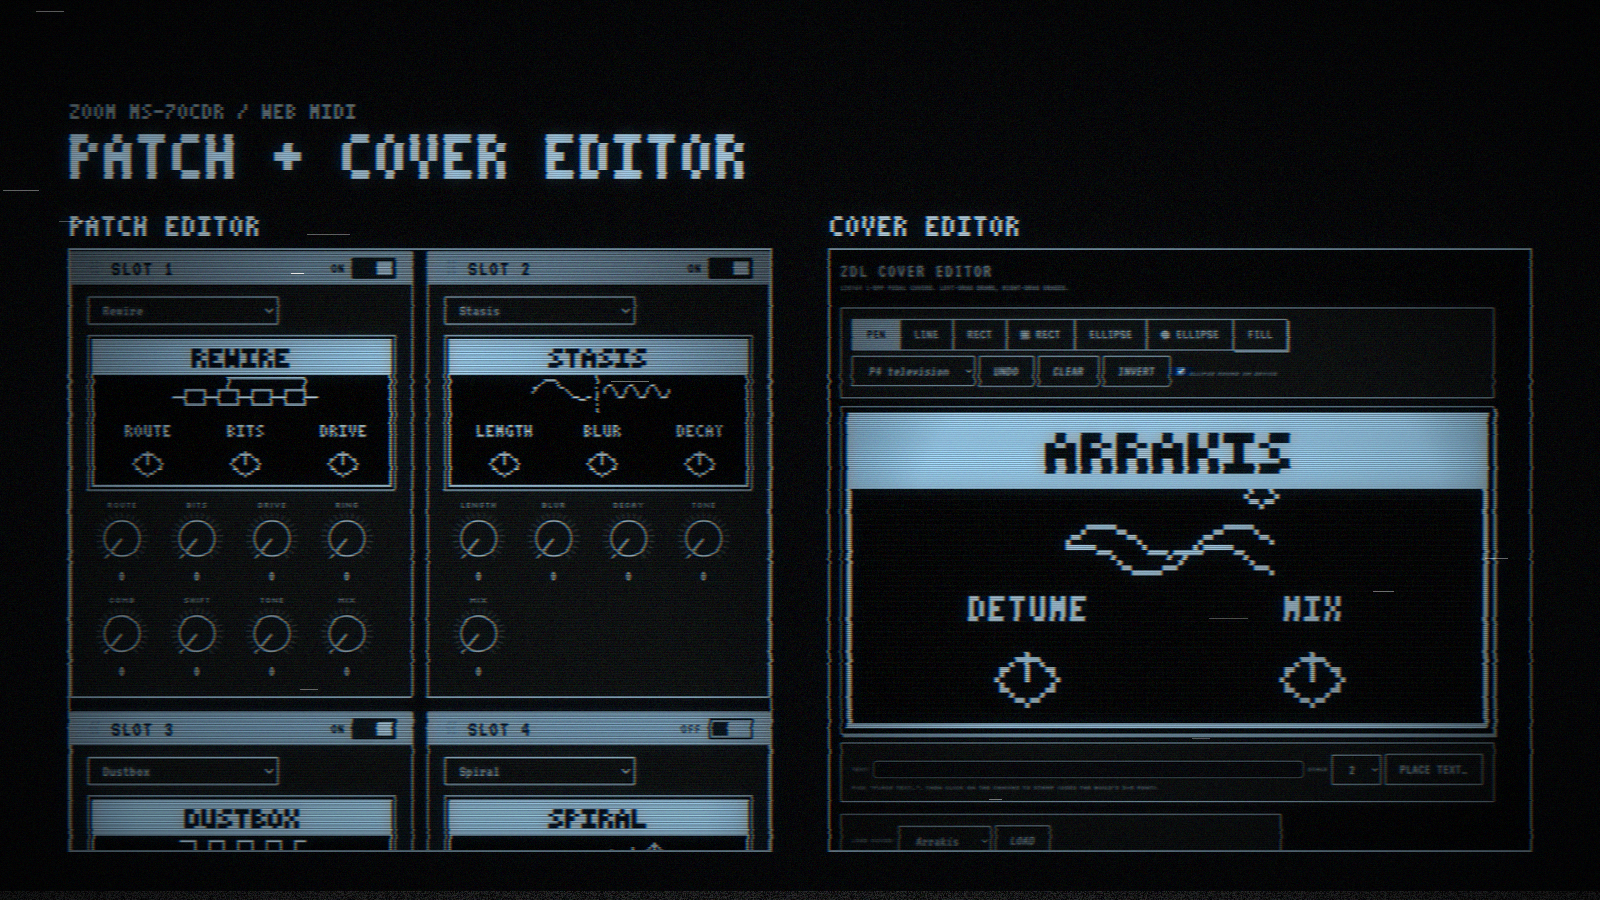
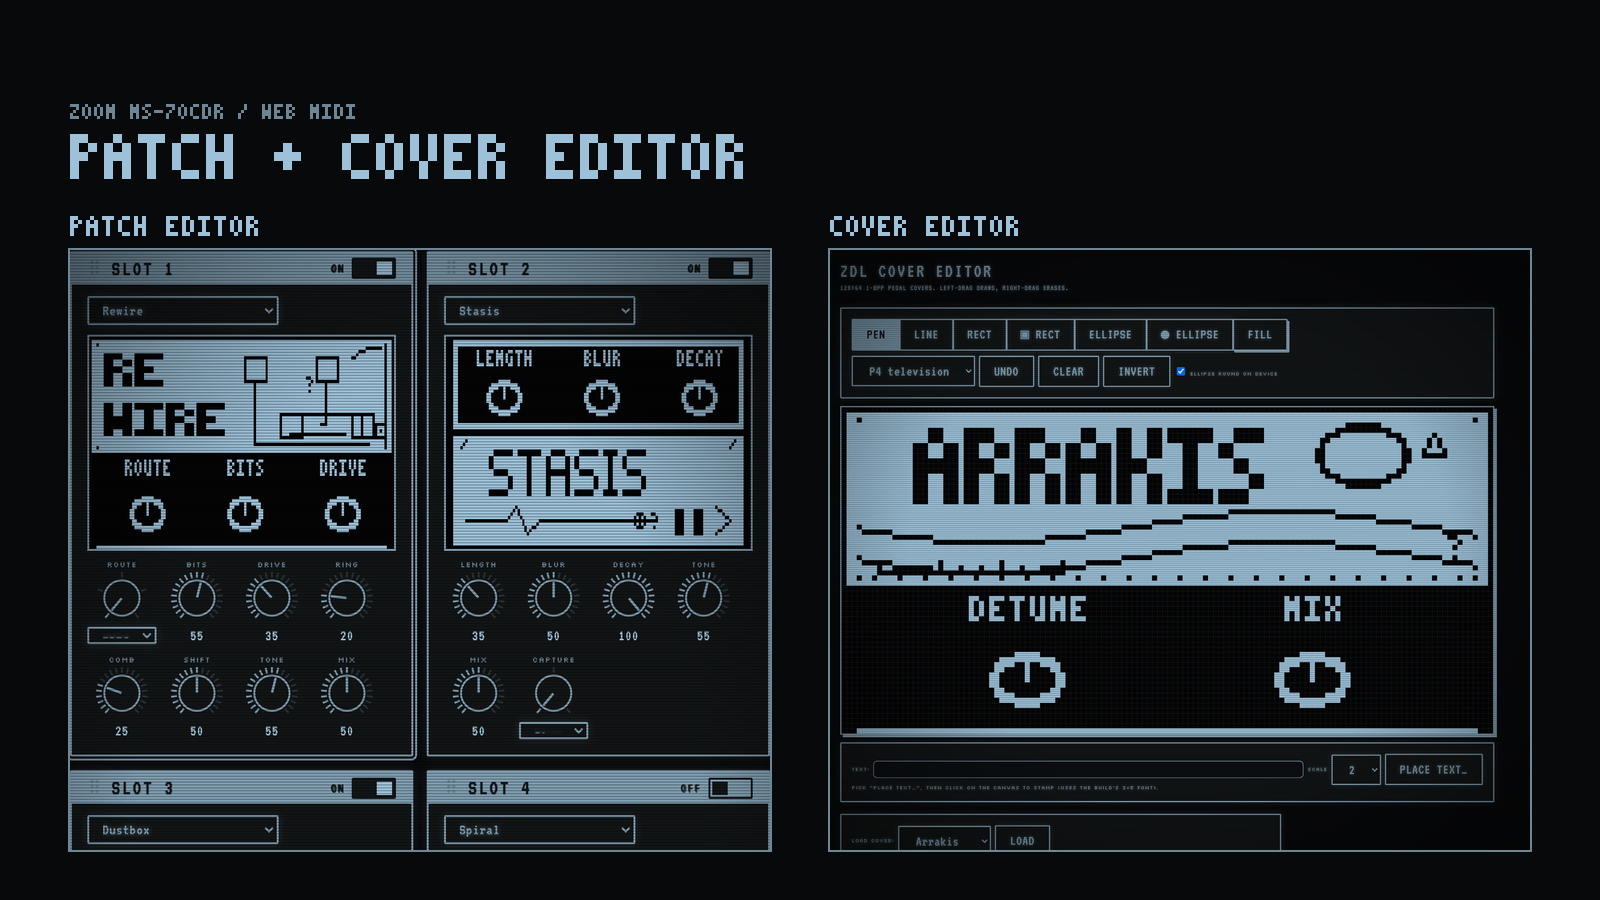
Refresh README effect overview and editor screenshots

Changed region(s): [[0.0312, 0.0933, 0.9688, 0.9644], [0.1562, 0.9956, 0.8125, 1.0], [0.5312, 0.9022, 0.6562, 0.9644]]

diff --git a/build/make_editor_thumb.py b/build/make_editor_thumb.py
@@ -1,5 +1,5 @@
 #!/usr/bin/env python3
-"""Render graphics/thumb_editors.png -- the editor hero -- as a VHS screengrab.
+"""Render graphics/thumb_editors.png -- the editor hero -- from current editor screenshots.
 
 Composition follows the June 2026 hero: an eyebrow, a big title, and the two
 editors side by side. What is different is that the June one was an ILLUSTRATION
@@ -13,6 +13,9 @@ pedal sends one -- a synthetic 146-byte 0x28 dump handed to the page's own
 handleSysex() -- so slots, knob counts and cover previews come from the editor's
 real code paths. When Rewire's Shift knob was missing from the editor's effect DB,
 this image showed seven knobs, which is how the staleness got caught.
+
+The current Arrakis bitmap is imported through the JSON file input, so the
+capture does not depend on the cover editor's older embedded examples.
 
 The pages are captured at a NARROW viewport on purpose: at full width the slot
 cards sit in one long row, and the reference composition wants two tall panels.
@@ -31,11 +34,11 @@ import numpy as np
 ROOT = Path(__file__).resolve().parent.parent
 sys.path.insert(0, str(ROOT / "build"))
 
-from make_thumb_png import BG, CARD_BG, LIT, DIM, draw_text, vhs  # noqa: E402
+from make_thumb_png import BG, CARD_BG, LIT, DIM, draw_text  # noqa: E402
 
 from PIL import Image  # noqa: E402
 
-PORT = 8777
+PORT = 8766
 PATCH_URL = f"http://127.0.0.1:{PORT}/tools/patch_editor.html"
 COVER_URL = f"http://127.0.0.1:{PORT}/tools/cover_editor.html"
 OUT = ROOT / "graphics" / "thumb_editors.png"
@@ -76,7 +79,10 @@ PATCH_JS = """
   base[0]=0xF0; base[1]=0x52; base[2]=0x00; base[3]=0x61; base[4]=0x28; base[145]=0xF7;
   const p = decodePatch(base);
   const slots = __SLOTS__;
-  for (let i = 0; i < 6; i++) p.fx[i] = slots[i];
+  for (let i = 0; i < 6; i++) {
+    const [on, id] = slots[i];
+    p.fx[i] = [on, id, ...BYID[id].params.map(p => p.default), 0, 0, 0].slice(0, 11);
+  }
   p.name = 'FARLOW RUD';
   p.curfx = 0; p.maxfx = 6;
   handleSysex(encodePatch(p, base));
@@ -109,6 +115,11 @@ def shoot(url, js, vw, vh, selector, out_path):
         page = b.new_page(viewport={"width": vw, "height": vh}, device_scale_factor=2)
         page.goto(url, wait_until="networkidle")
         page.evaluate(js)
+        if url == COVER_URL:
+            import json
+            from decode_picture import decode_picture
+            rows, _ = decode_picture(str(ROOT / "dist" / "Arrakis.ZDL"))
+            page.locator('#jsonIn').set_input_files({"name": "Arrakis.json", "mimeType": "application/json", "buffer": json.dumps({"grid": rows}).encode()})
         page.wait_for_timeout(700)
         target = page.query_selector(selector) if selector else None
         (target or page).screenshot(path=str(out_path))
@@ -190,7 +201,7 @@ def main() -> int:
     frame(canvas, fit(Image.open(b).convert("RGB"), PANEL),
           MARGIN + PANEL[0] + GAP, PANEL_Y, "COVER EDITOR")
 
-    vhs(canvas, strength=0.7).save(OUT)
+    canvas.save(OUT)
     a.unlink(missing_ok=True)
     b.unlink(missing_ok=True)
     print(f"  {OUT.relative_to(ROOT)}  ({CANVAS[0]}x{CANVAS[1]})")

diff --git a/build/make_thumb_png.py b/build/make_thumb_png.py
@@ -1,5 +1,5 @@
 #!/usr/bin/env python3
-"""Render graphics/thumb_effects.png -- the README hero -- as a VHS screengrab.
+"""Render graphics/thumb_effects.png -- the README hero -- from the current native effect artwork.
 
 The old hero was made by hand in June 2026 and said "x16" long after the pack
 passed sixteen effects; it was already three effects stale when the count reached
@@ -14,18 +14,8 @@ Palette is the editor's P4 "television white blend" phosphor theme, read from th
 same values patch_editor.html uses, so the hero and the editor look like the same
 machine.
 
-The VHS pass models the tape rather than sprinkling noise. In order:
-
-  * chroma smeared horizontally ~20x harder than luma, because VHS carries colour
-    at a fraction of luma bandwidth -- this is the artefact that actually reads as
-    "tape" rather than "old TV";
-  * per-line horizontal jitter, correlated down the frame, from the capstan;
-  * chroma misregistration, R and B pulled opposite ways;
-  * dropouts as short bright dashes where oxide has shed;
-  * head-switching tear in the bottom ~14 lines, the giveaway of a helical scan;
-  * scanlines, bloom into the dark, tape grain, vignette.
-
-Seeded, so a rebuild produces the same frame and the file does not churn in git.
+The overview keeps crisp native pixels and the physical LCD proportions.
+The legacy VHS helper remains available for older exploration scripts.
 
 Usage:
     python3 build/make_thumb_png.py
@@ -58,7 +48,7 @@ DIM = (108, 134, 150)    # --ink-soft
 
 CANVAS = (1600, 900)
 COLS, ROWS = 6, 4
-CARD = (244, 156)        # 128x64 stretched the way the device's non-square pixels want
+CARD = (244, 171)        # 128x64 stretched the way the device's non-square pixels want
 GAP = 12
 SEED = 20260827
 
@@ -253,7 +243,7 @@ def main() -> int:
 
     cards = [cover_card(z, *CARD) for z in zdls]
     title = title_card(len(zdls), CARD[0] * 2 + GAP, CARD[1])
-    out = vhs(compose(cards, title))
+    out = compose(cards, title)
 
     dest = ROOT / "graphics" / "thumb_effects.png"
     dest.parent.mkdir(parents=True, exist_ok=True)
